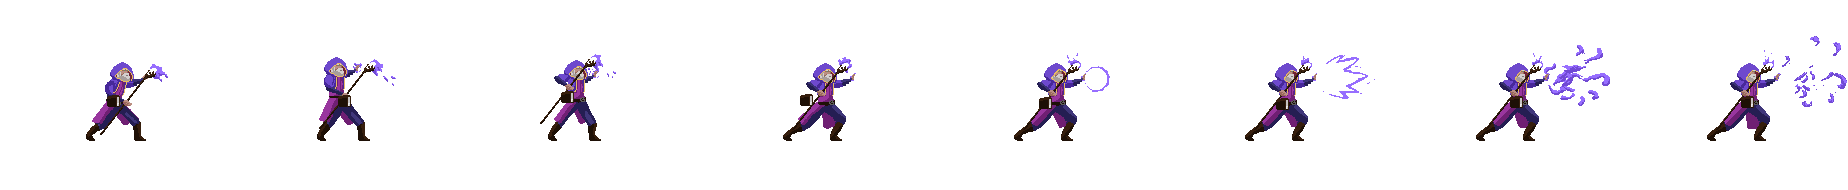
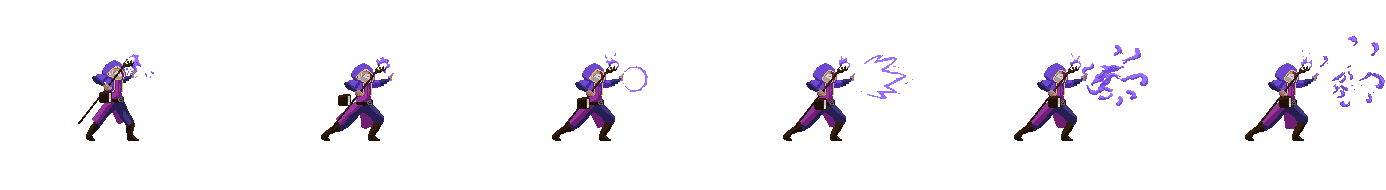
add Robbie animations, add missing Alex code

diff --git a/src/components/Canvas/lib/guardians.js b/src/components/Canvas/lib/guardians.js
@@ -209,11 +209,17 @@ class Character extends Sprite {
 
     switchSprite(sprite) {
         if (this.image === this.sprites.attack.image && 
-            this.framesCurrent < this.sprites.attack.framesMax -1) 
-            return
+            this.framesCurrent < this.sprites.attack.framesMax - 1) {
+            return;
+        } else if (this.image === this.sprites.attack2?.image && 
+                   this.sprites.attack2 &&
+                   this.framesCurrent < this.sprites.attack2.framesMax - 1) {
+            return;
+        }
         else if (this.image === this.sprites.hit.image && 
-            this.framesCurrent < this.sprites.hit.framesMax -1) 
-            return
+            this.framesCurrent < this.sprites.hit.framesMax -1) {
+            return;
+        }
             
         switch (sprite) {
             case 'idle':
@@ -232,6 +238,13 @@ class Character extends Sprite {
                 if (this.image !== this.sprites.attack.image){
                     this.image = this.sprites.attack.image
                     this.framesMax = this.sprites.attack.framesMax
+                    this.framesCurrent = 0
+                }
+                break;
+            case 'attack2':
+                if (this.image !== this.sprites.attack2.image){
+                    this.image = this.sprites.attack2.image
+                    this.framesMax = this.sprites.attack2.framesMax
                     this.framesCurrent = 0
                 }
                 break;
@@ -452,8 +465,8 @@ class Lanxe extends Guardian {
 }
 
 class Robbie extends Guardian {
-    constructor(x, y, imageSrc, scale = 1.5, framesMax = 6, offset = { x: 120, y: 70 }) {
-        super(x, y, imageSrc, scale, framesMax, offset);
+    constructor(x, y, imageSrc, scale, framesMax, offset, sprites) {
+        super(x, y, imageSrc, scale, framesMax, offset, sprites);
         this.name = "robbie";
         this.position = { x, y };
         this.width = 70;
@@ -481,6 +494,7 @@ class Robbie extends Guardian {
 
     attack() {
         if(this.currentMode === CHAR_MODES.MODE_1){
+            this.switchSprite('attack')
             this.isAttacking = true;
             new Lightning(this.target.position.x, this.target.position.y - 650);
             setTimeout(() => {
@@ -489,6 +503,7 @@ class Robbie extends Guardian {
         } 
                 
         else if(this.currentMode === CHAR_MODES.MODE_2){
+            this.switchSprite('attack2')
             this.isAttacking = true;
             new Heal(this.target.position.x, this.target.position.y -20)
             setTimeout(() => {
@@ -532,35 +547,7 @@ class James extends Guardian {
             width: this.atkRange,
             height: this.height,
         };
-
-        this.currentState = CHAR_STATES.FLEEING;
     }
-
-    // draw(context) {
-    //     super.draw(context)
-    //     switch (this.currentState) {
-    //         case CHAR_STATES.FORWARD:
-    //             context.fillStyle = `rgb(
-    //                 200,
-    //                 20,
-    //                 200)`;
-    //             break;
-    //         case CHAR_STATES.FLEEING:
-    //             context.fillStyle = `rgb(
-    //                 200,
-    //                 200,
-    //                 0)`;
-
-    //             break;
-    //         case CHAR_STATES.IDLE:
-    //             context.fillStyle = `rgb(
-    //                 200,
-    //                 200,
-    //                 200)`;
-    //             break;
-    //     }
-    //     context.fillRect(this.position.x, this.position.y, this.width, this.height);
-    // }
 }
 
 class Steph extends Guardian {
@@ -692,7 +679,7 @@ class Alex extends Guardian {
         this.maxHealth = 100;
         this.currHealth = this.maxHealth;
         this.atkSpd = 2900;
-        this.atkRange = 350;
+        this.atkRange = 450;
         this.movSpd = 2.9;
         
         this.isRetreating = false;
@@ -704,10 +691,47 @@ class Alex extends Guardian {
             width: this.atkRange,
             height: 60,
         };
+    }
 
-    }  
+    toggleAttributes() {
+        switch (this.currentMode) {
+            case CHAR_MODES.MODE_1:
+                this.atkSpd = 2900;
+                break;
+            case CHAR_MODES.MODE_2:
+                this.atkSpd = 800;
+                break;
+            default:
+                this.atkSpd = 2900;
+        }
+    }
+
+    updateTarget() {
+        if (this.currentMode == CHAR_MODES.MODE_1){
+            super.updateTarget()
+        }
+    }
+
+    attack() {
+        this.isAttacking = true;
+        if (this.currentMode == CHAR_MODES.MODE_1){
+            new Slash(this.position.x, this.position.y);
+            setTimeout(() => {
+                this.isAttacking = false;
+            }, 5);
+
+        } else if(this.currentMode == CHAR_MODES.MODE_2){
+            for (const guardian of guardians) {
+                if(guardian.name !== "van") {
+                    new Heal2(guardian.position.x, guardian.position.y -20)
+                }
+            }
+            setTimeout(() => {
+                this.isAttacking = false;
+            }, 5)
+        }  
+    }
 }
-    
 
 // --------------------  GUARDIAN PROJECTILE CLASSES  -------------------------
 class Projectile extends Sprite {
@@ -745,7 +769,6 @@ class Lightning extends Projectile {
         this.width = 60;
         this.height = 595;
         this.stunDuration = 3000;
-        this.image.src = "/src/components/canvas/img/Stephanie/Idle.png" 
 
         this.framesCurrent = 20;
         this.framesElapsed = 20;

diff --git a/src/components/Canvas/lib/spawner.js b/src/components/Canvas/lib/spawner.js
@@ -206,7 +206,7 @@ function spawnDuncan() {
 }
 
 function spawnSteph() {
-    new Steph(50, canvas.height - 168 - 260, "src/components/canvas/img/Stephanie/Idle.png", 3.0, 8, { x: 195, y: 140 },
+    new Steph(50, canvas.height - 168 - 260, "src/components/canvas/img/Steph/Idle.png", 3.0, 8, { x: 195, y: 140 },
     {
         idle: {
             imageSrc: "src/components/canvas/img/Steph/Idle.png",
@@ -228,8 +228,31 @@ function spawnSteph() {
     new LevelUp('New Guardian: Steph the Huntress', van[0].position.x + (van[0].width / 2) + 60, van[0].position.y - 0)
 }
 
+// x, y, imageSrc, scale = 1.5, framesMax = 6, offset = { x: 120, y: 70 }
 function spawnRobbie() {
-    new Robbie(50, canvas.height - 168 - 250, "src/components/canvas/img/Robbie/Idle.png");
+    new Robbie(50, canvas.height - 168 - 250, "src/components/canvas/img/Robbie/Idle.png", 1.5, 6, { x: 120, y: 70 },
+    {
+        idle: {
+            imageSrc: "src/components/canvas/img/Robbie/Idle.png",
+            framesMax: 6
+        },
+        run: {
+            imageSrc: "src/components/canvas/img/Robbie/Run.png",
+            framesMax: 8
+        },
+        attack: {
+            imageSrc: "src/components/canvas/img/Robbie/Attack.png",
+            framesMax: 6
+        },
+        attack2: {
+            imageSrc: "src/components/canvas/img/Robbie/Attack2.png",
+            framesMax: 6
+        },
+        hit: {
+            imageSrc: "src/components/canvas/img/Robbie/Hit.png",
+            framesMax: 4
+        } 
+    });
     new LevelUp('New Guardian: Robbie the Wizard', van[0].position.x + (van[0].width / 2) + 60, van[0].position.y - 0)
 }
 

diff --git a/src/components/Canvas/index.jsx b/src/components/Canvas/index.jsx
@@ -67,8 +67,8 @@ const Canvas = () => {
 
         // spawnDuncan();
         // spawnLanxe();
-        spawnSteph();
-        // spawnRobbie();
+        // spawnSteph();
+        spawnRobbie();
         // spawnJames();
         // spawnAlex();
 
